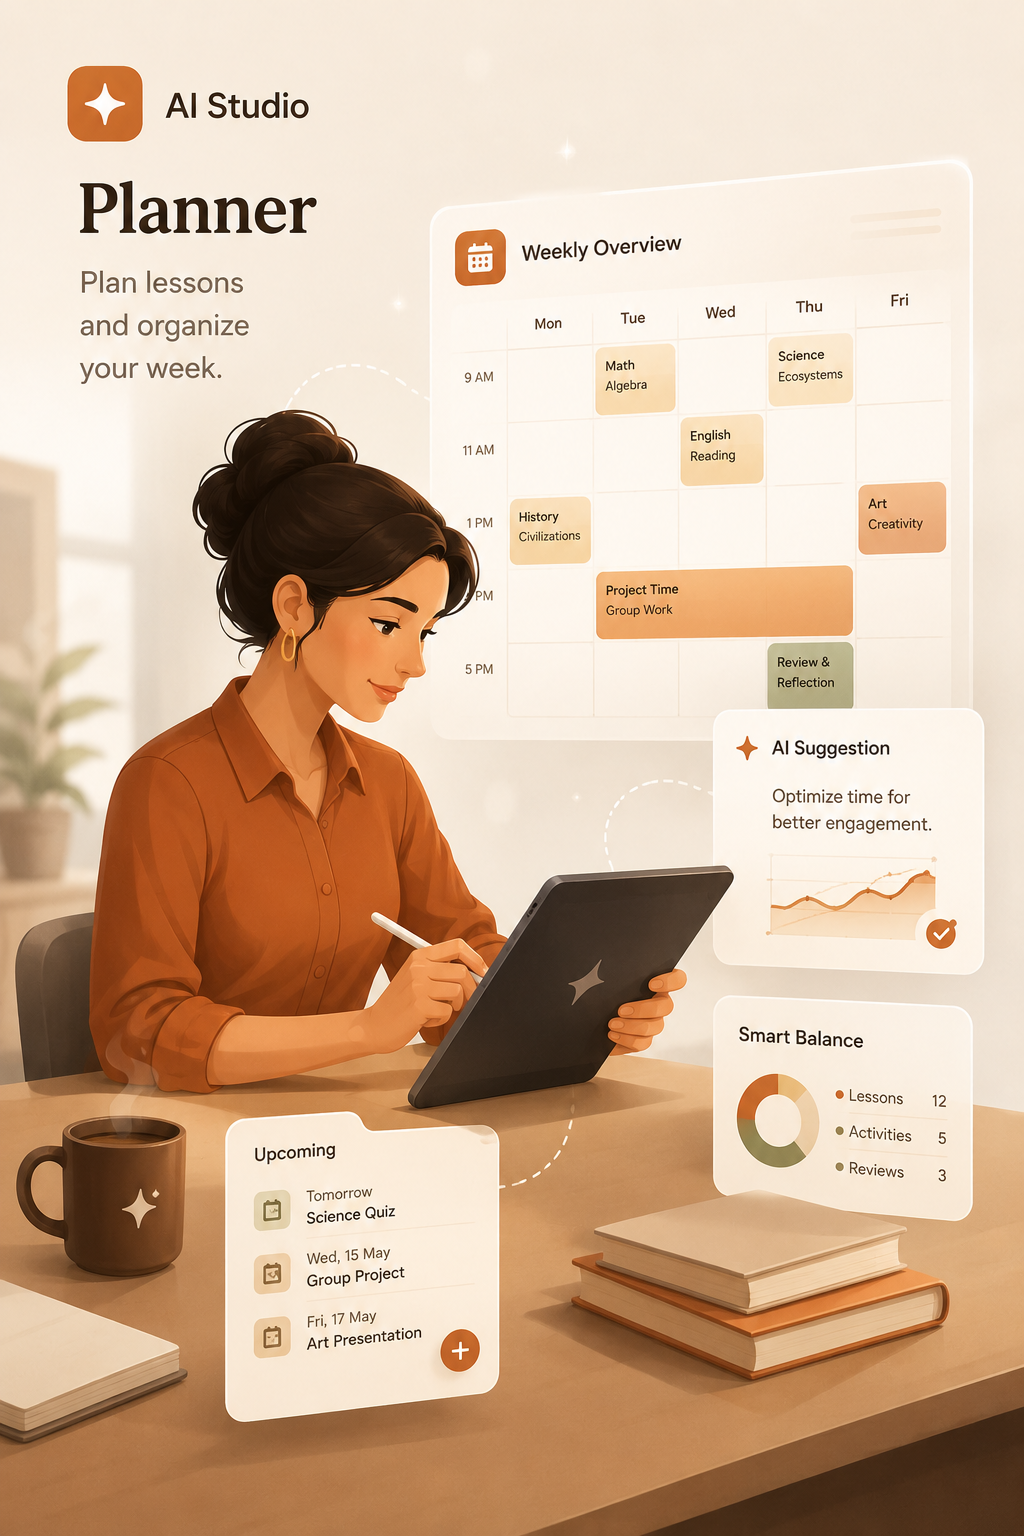
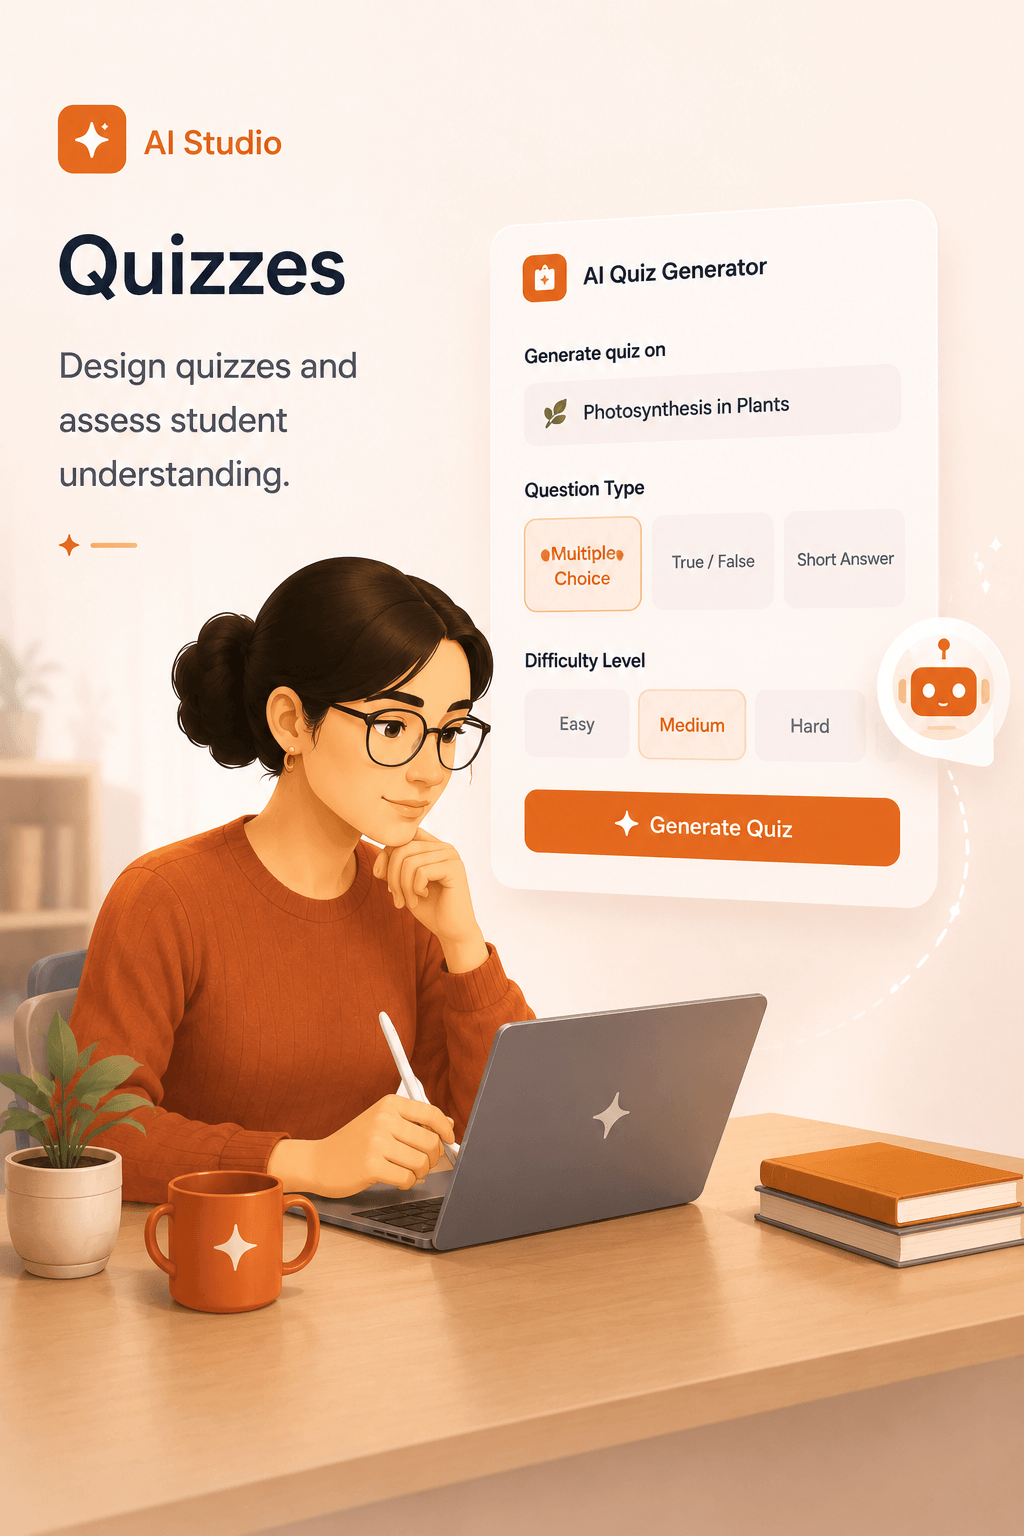
Index cards: full designed scenes for all six slots (set A s1.x / set B s2.x)
Replace the per-type card faces with the 12 product-tour images: each of
the six slots now renders a full 2:3 PNG, object-covering the shared
230x300 frame. Set A (1st section / hero arc) -> /s1.N.png; set B (2nd
section / index) -> /s2.N.png, by slot position. Relabel the index TOC +
descriptions (EN+AR) to the tour — Quizzes, Homework, Presentations,
Planner, Activities, AI Studio — and reword the headline ("Six tools.
One studio.") since "six artifacts" no longer fits.

diff --git a/src/lib/i18n.jsx b/src/lib/i18n.jsx
@@ -94,20 +94,22 @@ const EN = {
   "ch.hero.scroll": "Scroll",
   // ── 2026 editorial hero (atl.*) ──────────────────────────────────
   "atl.meaning": "Murchid · مُرشِد — the one who guides",
-  "atl.index.over": "One topic in. Six artifacts out.",
-  "atl.index.title": "Everything a lesson needs, drafted.",
-  "atl.art.lesson": "Lesson plan",
-  "atl.art.quiz": "Quiz",
-  "atl.art.deck": "Slide deck",
-  "atl.art.presentation": "Presentation",
-  "atl.art.activity": "Activity",
-  "atl.art.homework": "Homework",
-  "atl.desc.lesson": "Timed · MoE-aligned",
-  "atl.desc.quiz": "Auto-graded · 3 levels",
+  "atl.index.over": "Six tools. One studio.",
+  "atl.index.title": "Everything teaching needs, in one place.",
+  // Keys are the original slot ids (lesson/quiz/deck/…); the labels are the
+  // product tour shown on the cards — see CARD_IMG in HeroJourney.jsx.
+  "atl.art.lesson": "Quizzes",
+  "atl.art.quiz": "Homework",
+  "atl.art.deck": "Presentations",
+  "atl.art.presentation": "Planner",
+  "atl.art.activity": "Activities",
+  "atl.art.homework": "AI Studio",
+  "atl.desc.lesson": "Auto-graded · 3 levels",
+  "atl.desc.quiz": "Assign + track progress",
   "atl.desc.deck": "Class-ready slides",
-  "atl.desc.presentation": "Speaker notes built in",
+  "atl.desc.presentation": "Plan your week",
   "atl.desc.activity": "Pair, group or solo",
-  "atl.desc.homework": "Rubric + tracker",
+  "atl.desc.homework": "Your teaching copilot",
   // ── product film / showreel (film.*) ─────────────────────────────
   "film.eyebrow": "Watch it draft",
   "film.title.a": "From one line,",
@@ -838,20 +840,20 @@ const AR = {
   "ch.hero.scroll": "مرّر",
   // ── 2026 editorial hero (atl.*) ──────────────────────────────────
   "atl.meaning": "Murchid · مُرشِد — مَن يدلّك على الطريق",
-  "atl.index.over": "موضوعٌ واحد. ستّة مُخرجات.",
-  "atl.index.title": "كل ما يحتاجه الدرس، مَصُوغًا.",
-  "atl.art.lesson": "خطة درس",
-  "atl.art.quiz": "اختبار",
-  "atl.art.deck": "شرائح",
-  "atl.art.presentation": "عرض تقديمي",
-  "atl.art.activity": "نشاط",
-  "atl.art.homework": "واجب",
-  "atl.desc.lesson": "موقوت · وفق المنهج",
-  "atl.desc.quiz": "تصحيح تلقائي · ٣ مستويات",
+  "atl.index.over": "ستّ أدوات. استوديو واحد.",
+  "atl.index.title": "كل ما يحتاجه التدريس، في مكان واحد.",
+  "atl.art.lesson": "اختبارات",
+  "atl.art.quiz": "واجبات",
+  "atl.art.deck": "عروض تقديمية",
+  "atl.art.presentation": "المخطِّط",
+  "atl.art.activity": "أنشطة",
+  "atl.art.homework": "استوديو الذكاء",
+  "atl.desc.lesson": "تصحيح تلقائي · ٣ مستويات",
+  "atl.desc.quiz": "إسناد ومتابعة التقدّم",
   "atl.desc.deck": "شرائح جاهزة",
-  "atl.desc.presentation": "مع ملاحظات العرض",
+  "atl.desc.presentation": "خطِّط أسبوعك",
   "atl.desc.activity": "ثنائي · جماعي · فردي",
-  "atl.desc.homework": "روبرِك ومتابعة",
+  "atl.desc.homework": "مساعدك في التدريس",
   // ── product film / showreel (film.*) ─────────────────────────────
   "film.eyebrow": "شاهِدها تُصاغ",
   "film.title.a": "من سطرٍ واحد،",

diff --git a/src/views/HeroJourney.jsx b/src/views/HeroJourney.jsx
@@ -125,6 +125,35 @@ export function HeroCardFace({ kind, variant = "a" }) {
   const SH = { boxShadow: "0 30px 60px -28px rgba(26,24,20,0.45)" };
   const EBC = "font-mono text-[10px] uppercase tracking-[0.16em]";
 
+  // Each of the six card slots is a fully-designed scene (PNG) that fills
+  // the whole face. The slot *keys* below stay the original artifact ids
+  // (so the scroll animation + React keys never move) — the displayed
+  // concept is now a product tour: lesson→Quizzes, quiz→Homework,
+  // deck→Presentations, presentation→Planner, activity→Activities,
+  // homework→AI Studio. Set A ("1st section" / hero arc) → /s1.N.png;
+  // set B ("2nd section" / index) → /s2.N.png, N = the slot's 1-based
+  // position. The 2:3 art object-covers the shared 230×300 frame so all
+  // six read as one width (a sliver trimmed top/bottom).
+  const CARD_IMG = {
+    lesson:       { a: "/s1.1.png", b: "/s2.1.png" },
+    quiz:         { a: "/s1.2.png", b: "/s2.2.png" },
+    deck:         { a: "/s1.3.png", b: "/s2.3.png" },
+    presentation: { a: "/s1.4.png", b: "/s2.4.png" },
+    activity:     { a: "/s1.5.png", b: "/s2.5.png" },
+    homework:     { a: "/s1.6.png", b: "/s2.6.png" },
+  };
+  const cardImg = (CARD_IMG[kind] || {})[variant];
+  if (cardImg) {
+    return (
+      <div
+        className="w-[230px] h-[300px] rounded-2xl border overflow-hidden relative"
+        style={{ ...SH, borderColor: "var(--line)" }}
+      >
+        <img src={cardImg} alt="" className="absolute inset-0 w-full h-full object-cover" />
+      </div>
+    );
+  }
+
   if (kind === "deck" || kind === "presentation") {
     const DECK = {
       a: {
@@ -150,21 +179,6 @@ export function HeroCardFace({ kind, variant = "a" }) {
         <div className="absolute right-0 bottom-0 w-32 h-32 opacity-90">
           {t.art === "geo" ? <GeoArt stroke={t.dot} fill={t.soft} /> : <SlideArt stroke={t.dot} fill={t.soft} full />}
         </div>
-      </div>
-    );
-  }
-
-  // Image in the first (lesson) card — set A → s1.1, set B → s2.1. Same
-  // 230×300 frame as every other card; the 2:3 image fills it via object-cover
-  // (centred, a sliver trimmed top/bottom) so all six cards are one width.
-  const LESSON_IMG = { a: "/s1.1.png", b: "/s2.1.png" };
-  if (kind === "lesson" && LESSON_IMG[variant]) {
-    return (
-      <div
-        className="w-[230px] h-[300px] rounded-2xl border overflow-hidden relative"
-        style={{ ...SH, borderColor: "var(--line)" }}
-      >
-        <img src={LESSON_IMG[variant]} alt="" className="absolute inset-0 w-full h-full object-cover" />
       </div>
     );
   }
